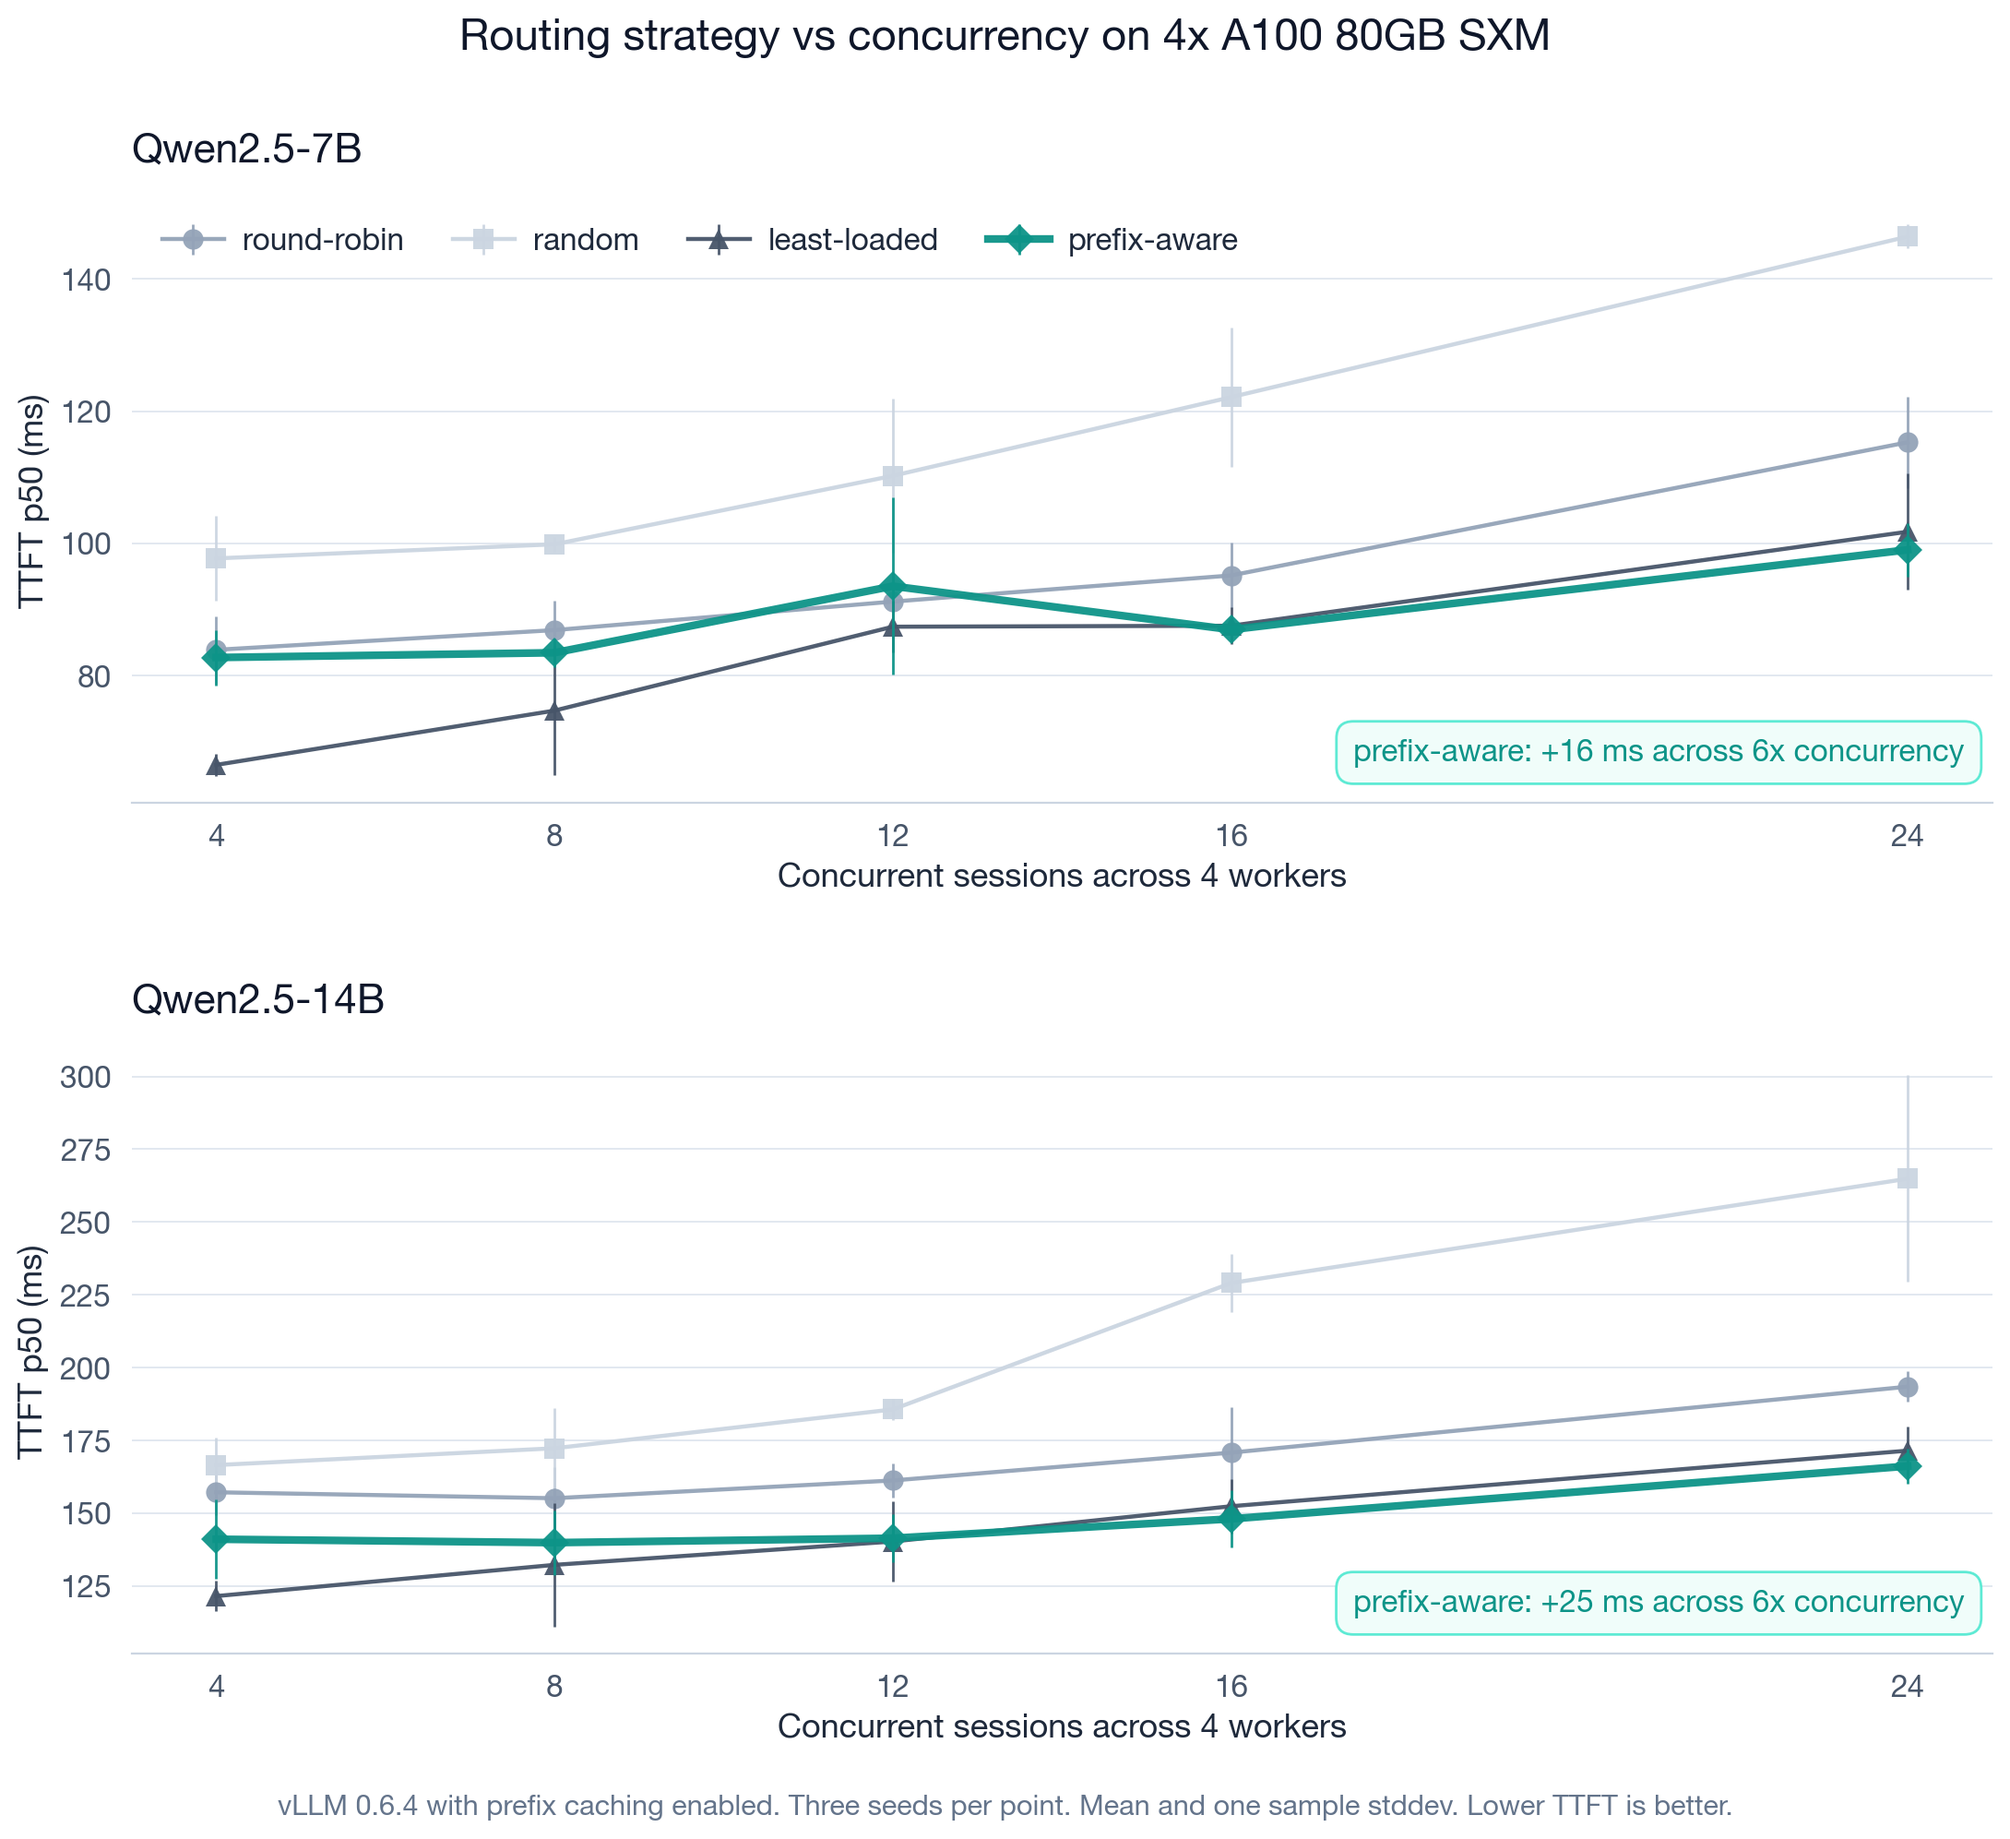
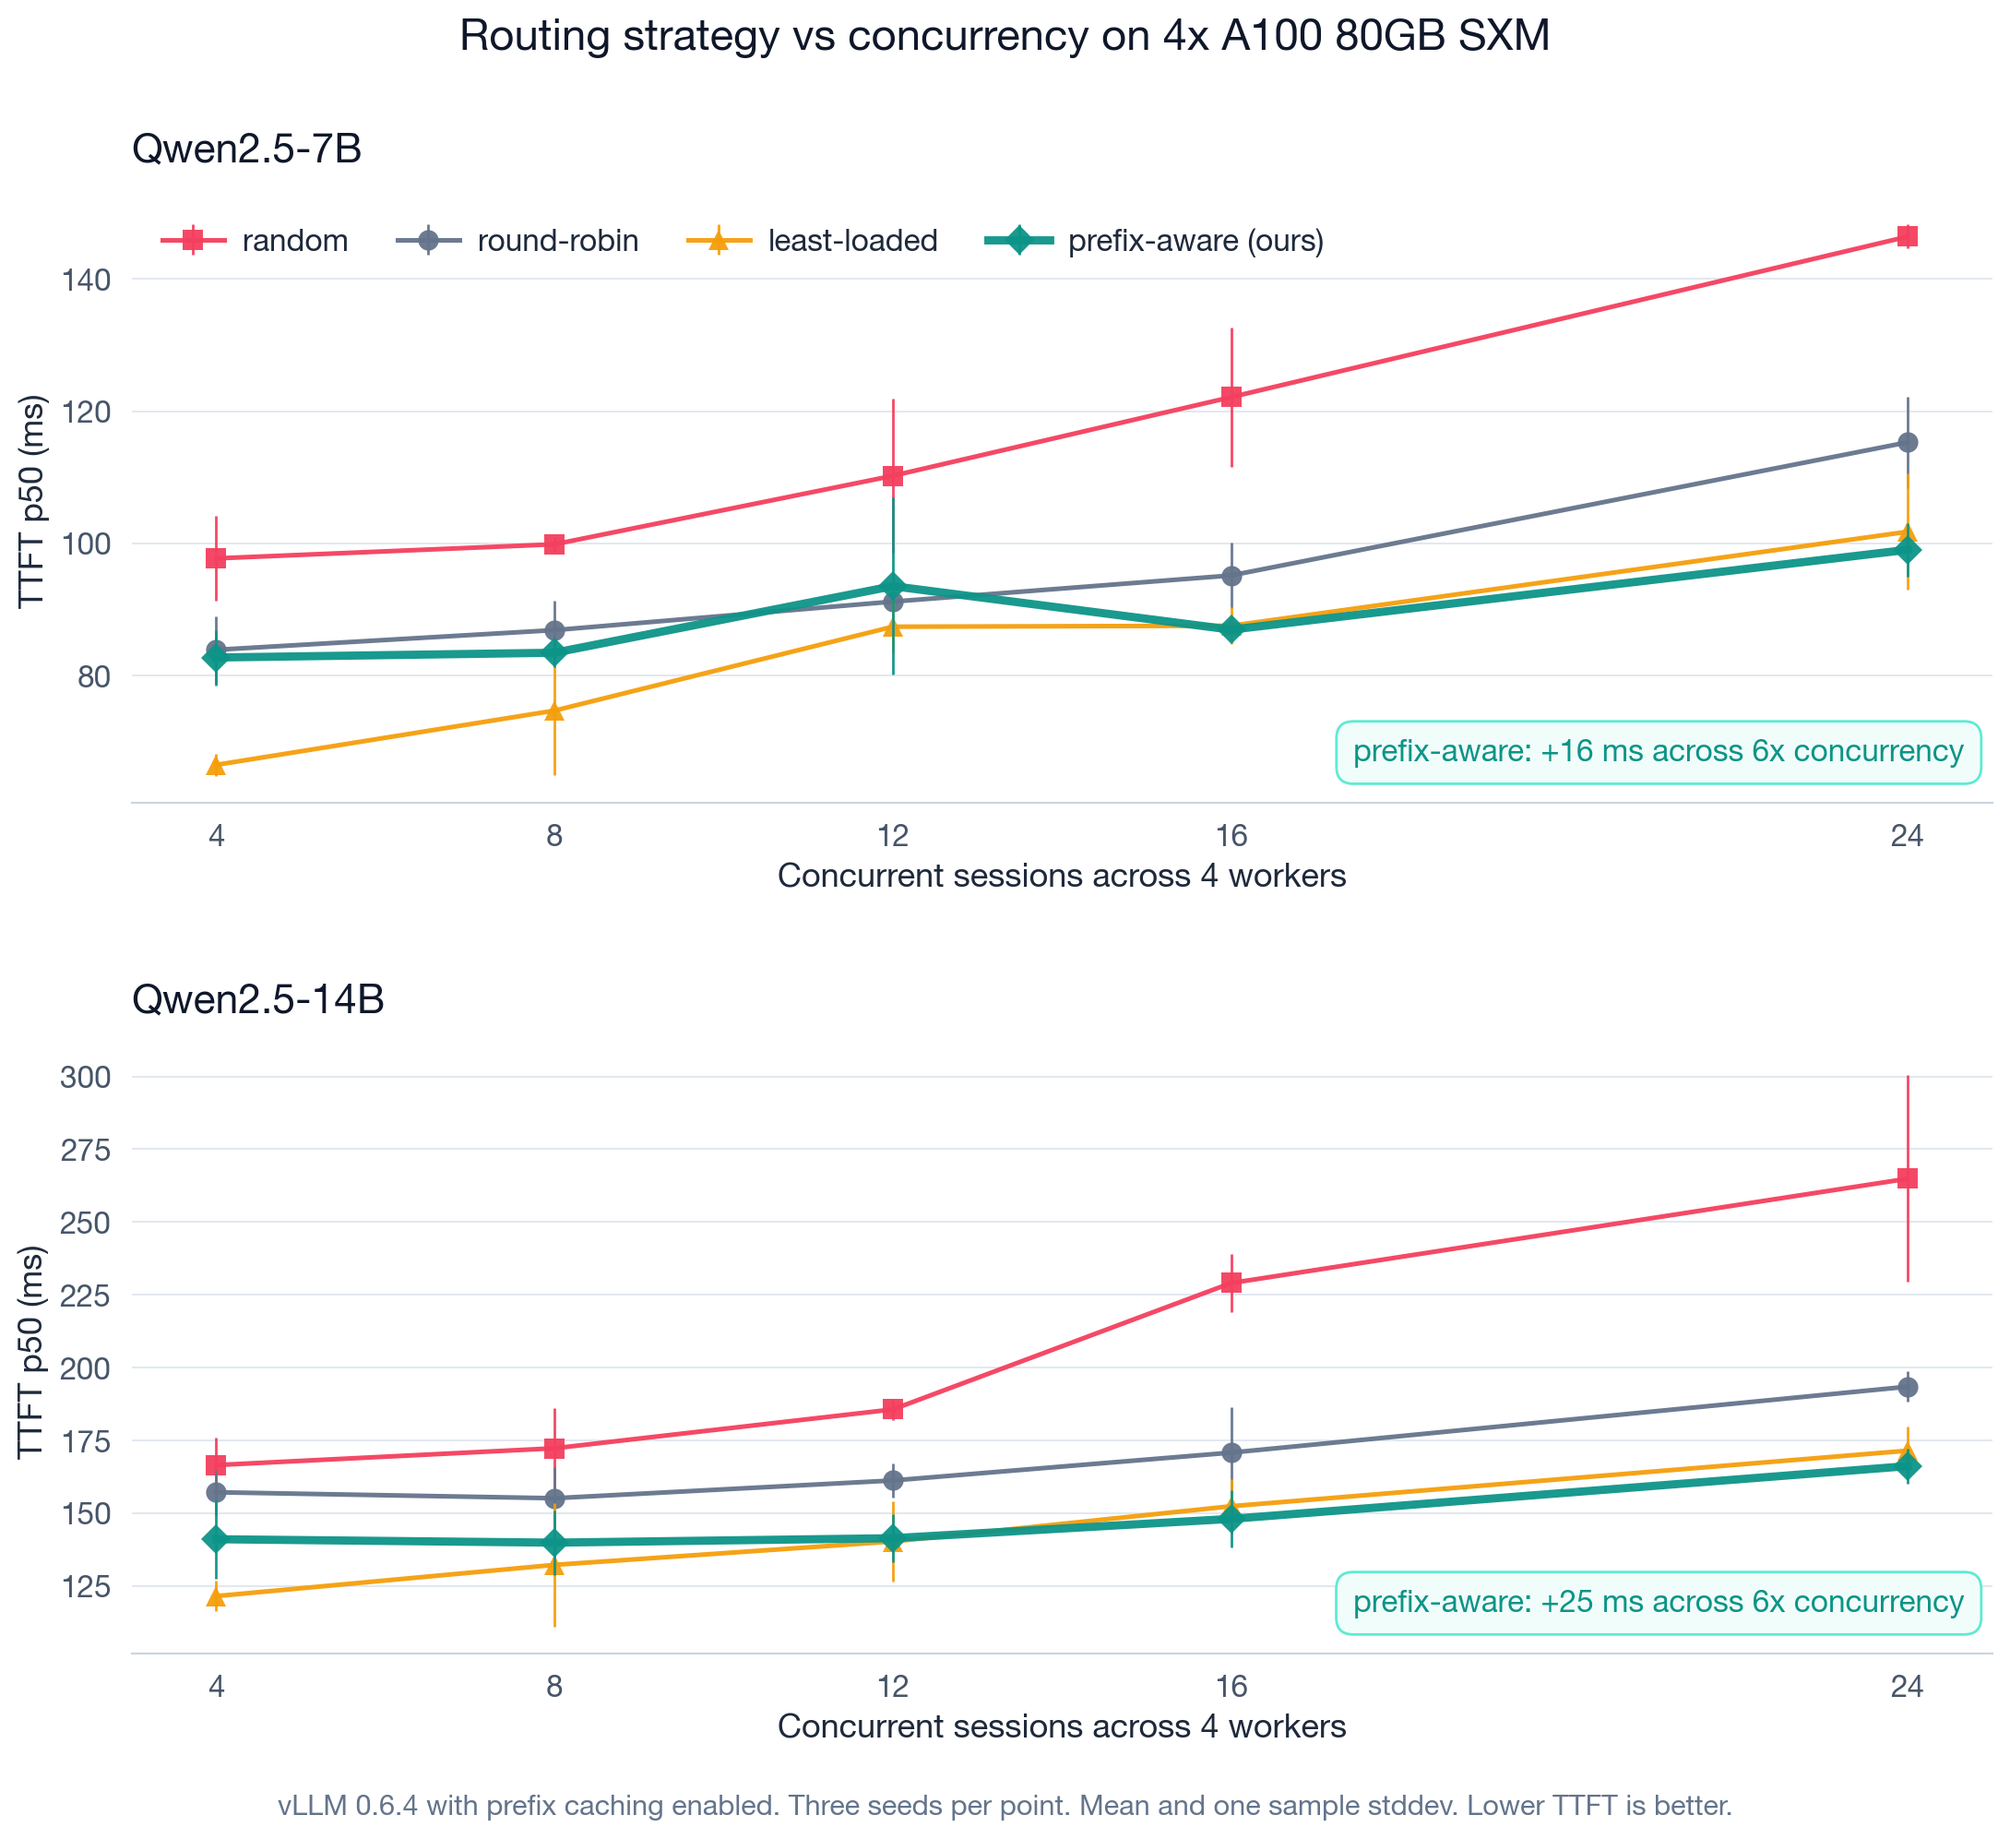
docs: tighter README + visible chart palette + leftover path cleanup
README:
- Distill-sql-1 inspired badge row: 5 'big-name' static badges (Go,
  vLLM, llama.cpp, Hugging Face, Prometheus) on one centered line, no
  GitHub-dynamic stars/CI/coverage/license. Reasoning: those four are
  already visible in GitHub's repo sidebar; duplicating them in the
  badge bar adds noise.
- Merged the bold tagline + the About paragraph into one summary block
  (still centered) so the value prop, what-it-does, and the test setup
  read as one piece instead of three small ones.
- Limitations: dropped 'In rough order of impact if addressed:'
  preamble; the bullets stand on their own.
- Renamed 'Layout' to 'Project structure' and switched the listing to a
  proper tree with branches.

Chart palette:
- Replaced the four-shade-grey + teal palette with four distinct hues:
  rose (random = worst), slate (round-robin = neutral baseline), amber
  (least-loaded = competitive runner-up), teal (prefix-aware = winner).
  Distinct hues so the eye separates winner from baselines at a glance.
  Avoids the red/green pair that confuses the most common color-blindness
  profile.

Leftover path refs caught and fixed:
- scripts/bench/demo.tape pointed at the old bench/scripts/* and
  docs/demo.gif paths.
- scripts/bench/full-bench.sh DONE banner emitted docs/sweep-X.png
  instructions instead of docs/images/sweep-X.png.
- scripts/bench/concurrency-sweep.sh DONE banner ditto.
- Makefile: removed phantom 'up' / 'down' targets that pointed at
[…]

diff --git a/scripts/plot/hero-cloud.py b/scripts/plot/hero-cloud.py
@@ -28,21 +28,25 @@ import matplotlib.pyplot as plt
 import matplotlib as mpl
 
 
+# Color hierarchy reads as: prefix-aware = winner (vivid teal),
+# least-loaded = competitive runner-up (amber), round-robin = neutral
+# baseline (slate), random = obvious worst (rose). Distinct hues so the
+# eye separates winner from baselines at a glance, no red/green confusion.
 PALETTE = {
-    "roundrobin":  "#94a3b8",
-    "random":      "#cbd5e1",
-    "leastloaded": "#475569",
-    "prefixaware": "#0d9488",
+    "random":      "#f43f5e",   # rose-500: worst
+    "roundrobin":  "#64748b",   # slate-500: neutral baseline
+    "leastloaded": "#f59e0b",   # amber-500: competitive runner-up
+    "prefixaware": "#0d9488",   # teal-600: winner
 }
 LABELS = {
-    "roundrobin":  "round-robin",
     "random":      "random",
+    "roundrobin":  "round-robin",
     "leastloaded": "least-loaded",
-    "prefixaware": "prefix-aware",
+    "prefixaware": "prefix-aware (ours)",
 }
-MARKERS  = {"roundrobin": "o", "random": "s", "leastloaded": "^", "prefixaware": "D"}
-ZORDER   = {"roundrobin": 2, "random": 2, "leastloaded": 3, "prefixaware": 5}
-LINEWIDTH = {"roundrobin": 1.6, "random": 1.6, "leastloaded": 1.6, "prefixaware": 3.0}
+MARKERS   = {"random": "s", "roundrobin": "o", "leastloaded": "^", "prefixaware": "D"}
+ZORDER    = {"random": 2,   "roundrobin": 3,   "leastloaded": 4,   "prefixaware": 5}
+LINEWIDTH = {"random": 1.8, "roundrobin": 1.8, "leastloaded": 1.8, "prefixaware": 3.2}
 
 
 def apply_modern_style():

diff --git a/scripts/plot/sweep-plot.py b/scripts/plot/sweep-plot.py
@@ -21,20 +21,20 @@ import matplotlib as mpl
 
 
 PALETTE = {
-    "roundrobin":  "#94a3b8",
-    "random":      "#cbd5e1",
-    "leastloaded": "#475569",
-    "prefixaware": "#0d9488",
+    "random":      "#f43f5e",   # rose-500: worst
+    "roundrobin":  "#64748b",   # slate-500: neutral baseline
+    "leastloaded": "#f59e0b",   # amber-500: competitive runner-up
+    "prefixaware": "#0d9488",   # teal-600: winner
 }
 LABELS = {
-    "roundrobin":  "round-robin",
     "random":      "random",
+    "roundrobin":  "round-robin",
     "leastloaded": "least-loaded",
-    "prefixaware": "prefix-aware",
+    "prefixaware": "prefix-aware (ours)",
 }
-MARKERS  = {"roundrobin": "o", "random": "s", "leastloaded": "^", "prefixaware": "D"}
-ZORDER   = {"roundrobin": 2, "random": 2, "leastloaded": 3, "prefixaware": 5}
-LINEWIDTH = {"roundrobin": 1.4, "random": 1.4, "leastloaded": 1.4, "prefixaware": 2.6}
+MARKERS   = {"random": "s", "roundrobin": "o", "leastloaded": "^", "prefixaware": "D"}
+ZORDER    = {"random": 2,   "roundrobin": 3,   "leastloaded": 4,   "prefixaware": 5}
+LINEWIDTH = {"random": 1.6, "roundrobin": 1.6, "leastloaded": 1.6, "prefixaware": 2.8}
 
 
 def apply_modern_style():

diff --git a/README.md b/README.md
@@ -2,32 +2,22 @@
 
 # llm-cache-router
 
-**Cache-aware load balancer for OpenAI-compatible LLM servers, in Go.**
+<p align="center">
+  <img alt="Go" src="https://img.shields.io/badge/Go-1.23%2B-00ADD8?logo=go&logoColor=white">
+  <img alt="vLLM" src="https://img.shields.io/badge/vLLM-0.6.4-ff6f00">
+  <img alt="llama.cpp" src="https://img.shields.io/badge/llama.cpp-supported-9333ea">
+  <img alt="Hugging Face" src="https://img.shields.io/badge/Hugging%20Face-Qwen2.5-FFD21E?logo=huggingface&logoColor=white">
+  <img alt="Prometheus" src="https://img.shields.io/badge/Prometheus-metrics-E6522C?logo=prometheus&logoColor=white">
+</p>
 
-[![Go](https://img.shields.io/badge/go-1.23%2B-00ADD8?style=for-the-badge&logo=go&logoColor=white)](go.mod)
-[![License](https://img.shields.io/github/license/zxuhan/llm-router?style=for-the-badge&color=22c55e)](LICENSE)
-[![CI](https://img.shields.io/github/actions/workflow/status/zxuhan/llm-router/ci.yml?branch=main&style=for-the-badge&logo=githubactions&logoColor=white&label=CI)](https://github.com/zxuhan/llm-router/actions/workflows/ci.yml)
-[![Coverage](https://img.shields.io/badge/coverage-97.9%25-22c55e?style=for-the-badge)](.github/workflows/ci.yml)
+<p>
+  <strong>Cache-aware load balancer for OpenAI-compatible LLM servers, in Go.</strong><br/>
+  Sits in front of a pool of OpenAI-compatible inference servers (vLLM, llama.cpp, mlx-lm) and routes each <code>/v1/chat/completions</code> request to the worker that already holds its prompt prefix in KV cache, so prefill happens once per shared prefix rather than once per worker. The benchmark below was run against vLLM 0.6.4 on 4× A100 80GB SXM with Qwen2.5-7B and Qwen2.5-14B; total cloud cost was about $25.
+</p>
 
-[![Go Report Card](https://goreportcard.com/badge/github.com/zxuhan/llm-router?style=flat-square)](https://goreportcard.com/report/github.com/zxuhan/llm-router)
-[![pkg.go.dev](https://img.shields.io/badge/pkg.go.dev-reference-007D9C?style=flat-square&logo=go&logoColor=white)](https://pkg.go.dev/github.com/zxuhan/llm-router)
-[![upstream: vLLM](https://img.shields.io/badge/upstream-vLLM%200.6.4-ff6f00?style=flat-square)](https://github.com/vllm-project/vllm)
-[![upstream: llama.cpp](https://img.shields.io/badge/upstream-llama.cpp-9333ea?style=flat-square)](https://github.com/ggerganov/llama.cpp)
-[![metrics: Prometheus](https://img.shields.io/badge/metrics-Prometheus-E6522C?style=flat-square&logo=prometheus&logoColor=white)](internal/metrics/metrics.go)
+<img src="docs/images/hero-cloud.png" alt="Vertically stacked concurrency sweep at Qwen2.5-7B and Qwen2.5-14B. Prefix-aware (teal) holds the flattest TTFT line under load; baselines climb 2 to 3x faster." width="100%"/>
 
 </div>
-
-`llm-cache-router` is a Go reverse proxy that sits in front of a pool of
-OpenAI-compatible inference servers and routes each `/v1/chat/completions`
-request to the worker that already holds its prompt prefix in KV cache.
-Skipping the prefill stage on cache hits keeps time-to-first-token bounded
-as concurrency rises. The benchmark below was run against vLLM 0.6.4 on
-4× A100 80GB SXM with Qwen2.5-7B and Qwen2.5-14B; total cloud cost was
-about \$25.
-
-<p align="center">
-  <img src="docs/images/hero-cloud.png" alt="Vertically stacked concurrency sweep at Qwen2.5-7B and Qwen2.5-14B. Prefix-aware (teal) holds the flattest TTFT line under load; baselines climb 2 to 3x faster." width="100%"/>
-</p>
 
 ## Quickstart
 
@@ -178,29 +168,32 @@ ADRs covering language choice, backend abstraction, prefix tree design,
 LRU eviction, the safety valve, tokenization, the circuit breaker, and
 tie-break randomization: [`docs/decisions/`](docs/decisions/).
 
-## Layout
+## Project structure
 
 ```
-cmd/                     CLI binaries (router, bench, gen-traces, replay)
-internal/                Go packages (config, backend, prefixtree, router, proxy, ...)
-config/                  example yaml config
-scripts/
-    install-cloud.sh     one-shot pod setup
-    bench/               bench orchestrators (real-llm.sh, cloud-vllm.sh, ...)
-    plot/                matplotlib renderers (hero-cloud.py, sweep-plot.py, ...)
-docs/
-    architecture.md      package graph, request lifecycle, metrics list
-    benchmarks.md        local reproduction recipes
-    cloud-bench.md       cloud reproduction runbook
-    results.md           local M1 results
-    results-cloud.md     cloud A100 results, per-concurrency tables
-    decisions/           ADRs
-    images/              chart and gif assets
+.
+├── cmd/                       CLI binaries: router, bench, gen-traces, replay
+├── internal/                  Go packages: config, backend, prefixtree, router, proxy, ...
+├── config/                    example yaml
+├── scripts/
+│   ├── install-cloud.sh       one-shot pod setup (Go + vLLM + pinned deps)
+│   ├── bench/                 orchestrators: real-llm.sh, cloud-vllm.sh, full-bench.sh, ...
+│   └── plot/                  matplotlib renderers: hero-cloud.py, sweep-plot.py, ...
+├── docs/
+│   ├── architecture.md        package graph, request lifecycle, metrics list
+│   ├── benchmarks.md          local reproduction recipes
+│   ├── cloud-bench.md         cloud reproduction runbook
+│   ├── results.md             local M1 numbers
+│   ├── results-cloud.md       cloud A100 numbers, per-concurrency tables
+│   ├── decisions/             8 ADRs
+│   └── images/                chart and gif assets
+├── .github/workflows/ci.yml   vet, lint, race tests, coverage gate, fuzz smoke
+├── Makefile
+├── go.mod
+└── README.md
 ```
 
 ## Limitations
-
-In rough order of impact if addressed:
 
 - **Bootstrap CIs over the per-request distribution** would replace the
   current ±1 sample-stddev error bars (computed from three seeds). With
